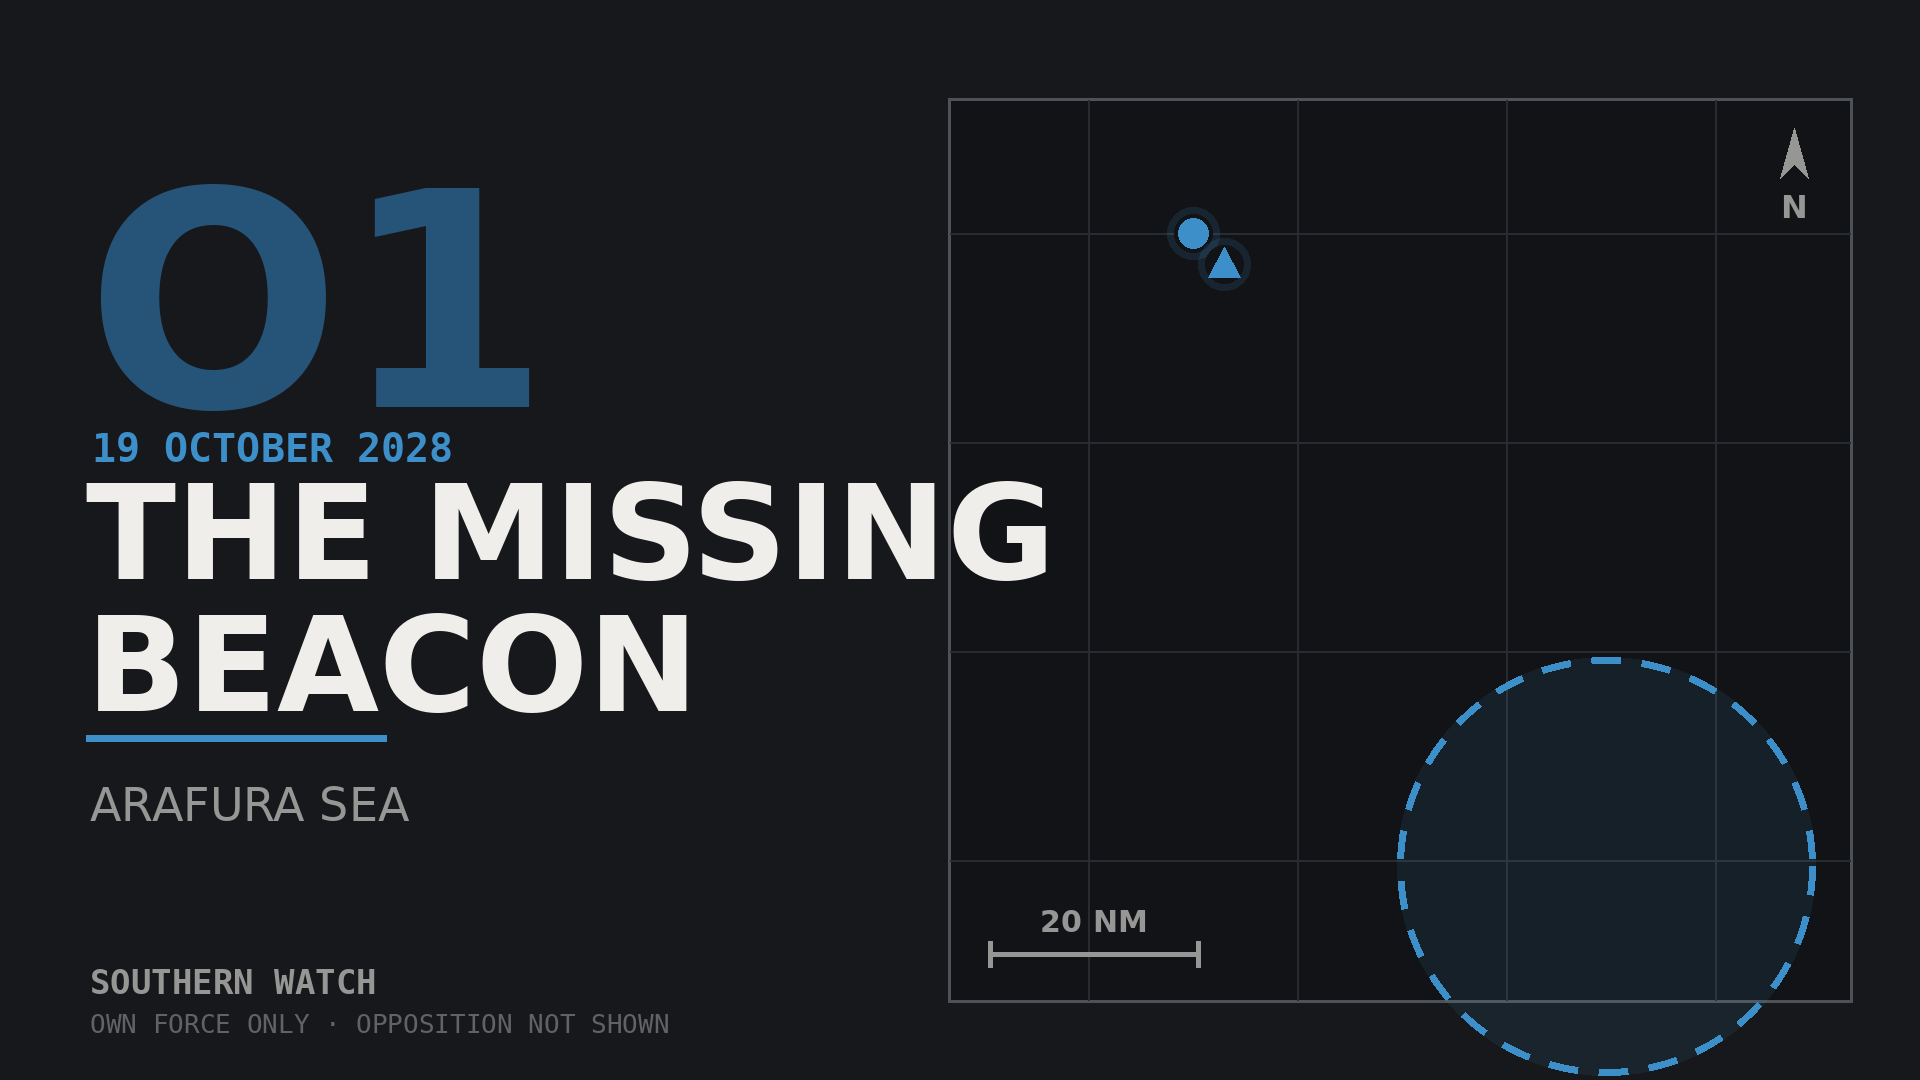
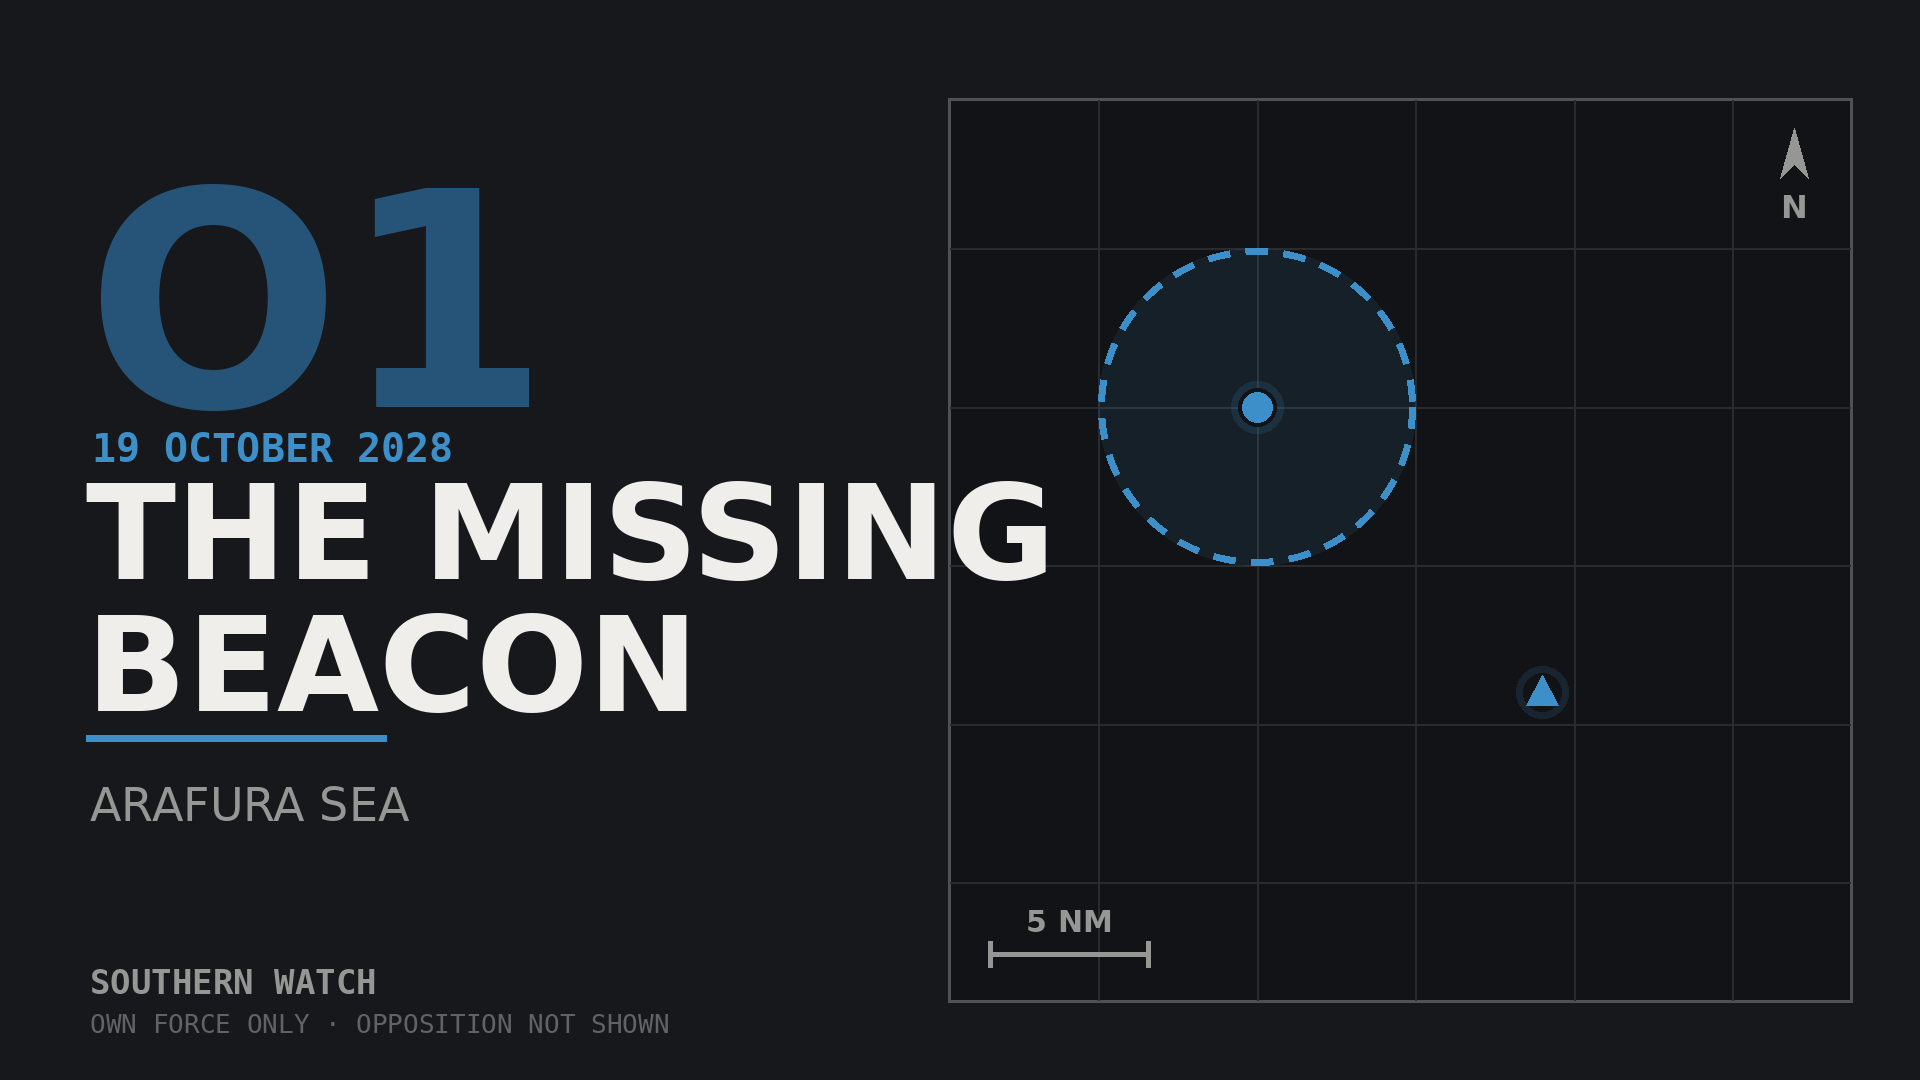
Southern Watch: The Missing Beacon's helicopter comes home to the ship
The rewrite drew O1's win box on HMAS Arafura (five miles, after the
wreck is classified) and its victory text put the recordings on the
ship's quarterdeck - but "O1" was still listed in ARRIVALS, and the
arrival solver overrides an authored box whenever a bearing is given.
The built trigger was a 20 NM circle 71 NM from the ship, so the
mission ended with the helicopter over open water and the debrief
describing a landing that had not happened - the pass-2 finding the
rewrite was meant to close.

O1 leaves ARRIVALS. The flight now starts twelve miles ahead of the
ship on the outbound leg, because a win box drawn on the ship must not
contain the aircraft at spawn. Built: Trigger5 PositionNM=30,0,0 (the
ship), radius 5, enabled by the classify stage.

diff --git a/integration/campaign/campaign_data.py b/integration/campaign/campaign_data.py
@@ -2986,7 +2986,9 @@ MISSIONS.append(dict(
          "weather and colder water.",
     stations={
         "patrol": S(-10.0, 131.5, "HMAS Arafura", heading=100),
-        "datum": S(-10.05, 131.55, "Arafura Flight", heading=100, alt=2000),
+        # Airborne on the outbound leg, 12 NM ahead of the ship: the win box is
+        # drawn on the ship, so the flight must start outside it.
+        "datum": S(-10.15, 131.65, "Arafura Flight", heading=100, alt=2000),
         # The coaster herself, adrift at her last reported position, and
         # the lane traffic between the ship and the datum with routes across
         # the helicopter's track - the reviewed build had an empty circle and
@@ -3740,7 +3742,6 @@ ARRIVALS = {
     "12": (-142, 12),
     "D1": (85, 12),
     "D4": (135, 12),
-    "O1": (148, 20),
 }
 
 RESOLVERS = {
